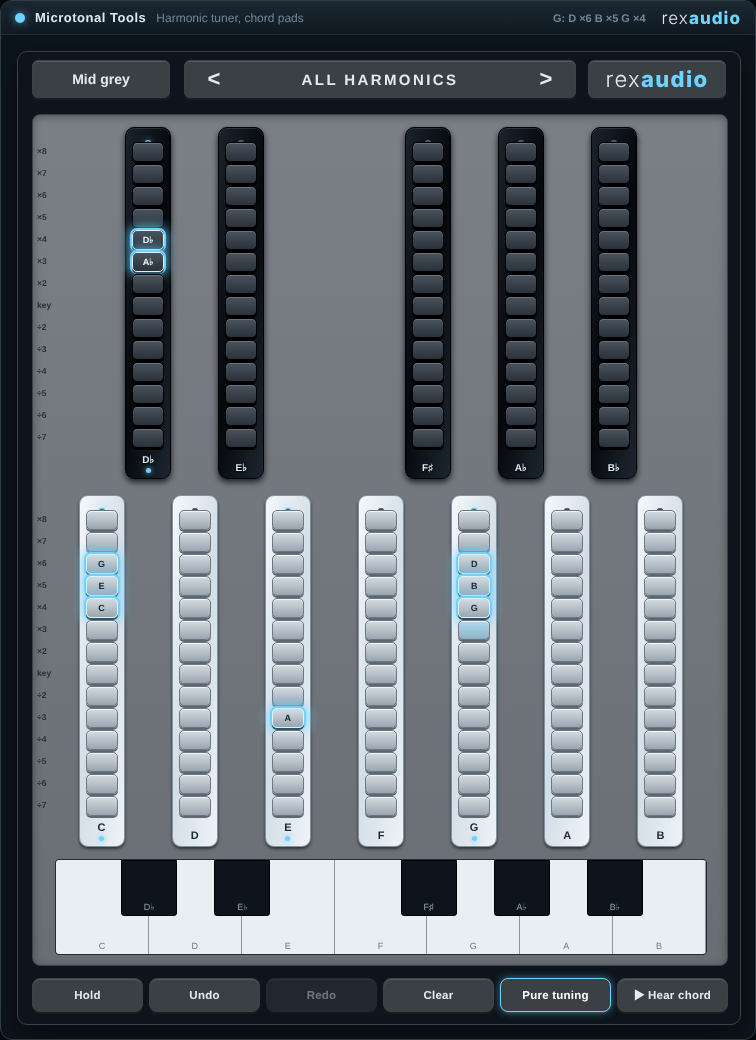
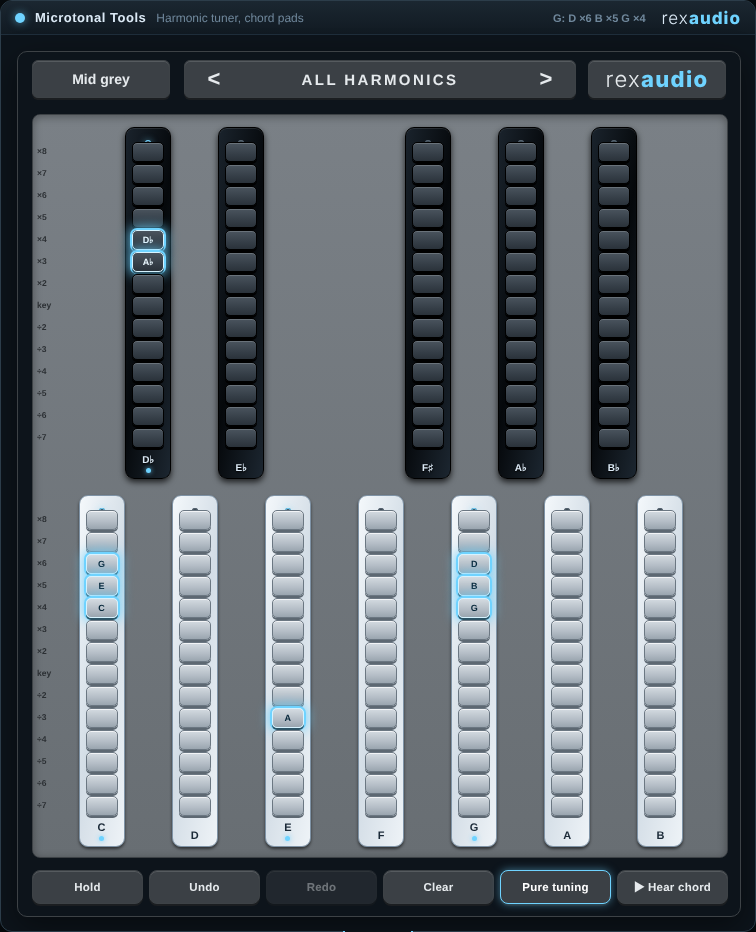
Chord pads page: Tunings keyboard module (stand, cable, MIDI card, knobs, wheels, two-octave keyboard) under the pads window
Claude-Session: https://claude.ai/code/session_01Mq2GKQqtKS2SjuN1U1snRm

diff --git a/harmonic-tuner-pads.html b/harmonic-tuner-pads.html
@@ -21,7 +21,7 @@
 
   /* the window, as on the Microtonal tuner page */
   #wrap { position:relative; margin:0 auto; }
-  #winf { position:absolute; left:0; top:0; width:756px; height:1040px; transform-origin:0 0; border:1px solid #2c3d4a; border-radius:12px; overflow:hidden; background:#0d141b; box-shadow:0 14px 40px rgba(0,0,0,.5); }
+  #winf { position:absolute; left:0; top:0; width:756px; height:932px; transform-origin:0 0; border:1px solid #2c3d4a; border-radius:12px; overflow:hidden; background:#0d141b; box-shadow:0 14px 40px rgba(0,0,0,.5); }
   #winf .dbar { height:34px; display:flex; align-items:center; gap:10px; padding:0 14px; background:linear-gradient(#1b2731,#111a22); border-bottom:1px solid #1f2e3b; }
   #winf .ddot { width:10px; height:10px; border-radius:50%; background:#6fd3ff; box-shadow:0 0 8px #6fd3ff99; }
   #winf .dtitle { font:700 13px Arial; color:#dbe9f5; letter-spacing:.04em; } #winf .dsub { font:500 12px Arial; color:#6f879b; }
@@ -29,7 +29,7 @@
   #winf .dlogo { margin-left:6px; font:300 17px "Helvetica Neue",Inter,Arial,sans-serif; letter-spacing:.06em; color:#dbe9f5; } #winf .dlogo b { font-weight:800; color:#6fd3ff; }
 
   /* the wooden module */
-  #mod { position:absolute; left:16px; top:50px; width:724px; height:974px; overflow:hidden; border:1px solid #9a7048; border-radius:10px; box-shadow:0 10px 30px rgba(0,0,0,.45); user-select:none; -webkit-user-select:none; touch-action:manipulation;
+  #mod { position:absolute; left:16px; top:50px; width:724px; height:866px; overflow:hidden; border:1px solid #9a7048; border-radius:10px; box-shadow:0 10px 30px rgba(0,0,0,.45); user-select:none; -webkit-user-select:none; touch-action:manipulation;
     background-color:#573821;
     background-image:radial-gradient(ellipse 190px 23px at 14% 9%, rgba(205,151,91,.32), transparent 78%), radial-gradient(ellipse 280px 15px at 81% 24%, rgba(15,6,2,.43), transparent 82%), radial-gradient(ellipse 230px 25px at 45% 42%, rgba(163,105,57,.23), transparent 76%), radial-gradient(ellipse 310px 18px at 67% 69%, rgba(15,6,2,.34), transparent 83%), radial-gradient(ellipse 210px 21px at 22% 88%, rgba(229,176,116,.18), transparent 80%), linear-gradient(135deg,#76502f,#573821 52%,#302016);
     background-blend-mode:screen,multiply,soft-light,multiply,screen,normal; }
@@ -64,7 +64,7 @@
   .mode-toggle[aria-pressed="true"] { background:linear-gradient(135deg,#d9b17b,#c5965e 55%,#b7844f); box-shadow:inset 0 2px 4px rgba(82,48,20,.24), 0 1px 0 rgba(255,241,204,.45); }
 
   /* the key bed: light honey wood, the black keys above and the white keys below, each with its own column of knobs */
-  #dock { left:14px; top:62px; width:696px; height:852px; border:1px solid #a87948; border-radius:8px; overflow:hidden; touch-action:none; background:linear-gradient(135deg,#f0d1a0,#d9b17b 55%,#c5965e); box-shadow:inset 0 2px 8px rgba(76,43,17,.22); }
+  #dock { left:14px; top:62px; width:696px; height:744px; border:1px solid #a87948; border-radius:8px; overflow:hidden; touch-action:none; background:linear-gradient(135deg,#f0d1a0,#d9b17b 55%,#c5965e); box-shadow:inset 0 2px 8px rgba(76,43,17,.22); }
   #dock::before { content:""; position:absolute; inset:0; pointer-events:none; opacity:.13; mix-blend-mode:multiply; filter:url(#organicWoodNoise); background:rgba(91,53,22,.34); }
   #dock > * { position:absolute; z-index:1; }
   .rl.r { left:auto; right:4px; text-align:right; color:#5a3a22; } .rl { left:4px; width:24px; font:700 8.5px/1 Arial; color:#7a5230; text-align:left; margin-top:-4px; }
@@ -92,7 +92,7 @@
     box-shadow:0 3px 5px rgba(0,0,0,.5), inset 0 1px 0 rgba(255,241,204,.7), inset 0 -2px 2px rgba(70,38,13,.32), 0 0 0 2px rgba(255,240,205,.55), 0 0 8px 1px rgba(255,226,160,.6); }
   .key .kn.on.xen { color:#7a2a10; }
   .kn:focus-visible { outline:2px solid #fff; outline-offset:2px; }
-  .bot { left:14px; width:696px; display:flex; gap:10px; height:34px; } #bot1 { top:926px; }
+  .bot { left:14px; width:696px; display:flex; gap:10px; height:34px; } #bot1 { top:818px; }
   .tbtn { flex:1 1 0; min-width:0; height:34px; padding:0 5px; white-space:nowrap; overflow:hidden; text-overflow:ellipsis; border-radius:8px; border:1px solid #28180e; cursor:pointer; color:#f0d6ad; font:700 12px Arial; letter-spacing:.02em; text-shadow:0 1px 2px rgba(0,0,0,.55); touch-action:manipulation;
     background-color:#573821; background-image:repeating-linear-gradient(3deg,rgba(35,17,7,.22) 0 1px,transparent 1px 4px,rgba(236,190,130,.12) 4px 5px,transparent 5px 11px),linear-gradient(135deg,#8a603a,#5a3822 58%,#3b2518);
     box-shadow:0 2px 0 #211309,inset 0 1px 0 rgba(255,226,183,.25),inset 0 -1px 0 rgba(25,12,5,.45); }
@@ -132,10 +132,36 @@
   .ta { width:46px; height:30px; border:0; border-radius:5px; background:none; color:inherit; font:700 22px/1 Arial; cursor:pointer; } .ta:hover { background:rgba(255,255,255,.12); }
   .mh { display:none; touch-action:none; cursor:ns-resize; user-select:none; z-index:3; } .v4 .mh { display:flex; }
   .v3 .key.w .kn:not(.on) { color:#37414b; } .v3 .key.b .kn:not(.on) { color:#e1e7ec; } .v3 .key .kn { font-size:8.5px; }
-  #pkb { position:absolute; top:744px; height:96px; display:flex; background:#000; border:1px solid #1f2e3b; border-radius:4px; overflow:hidden; touch-action:none; user-select:none; -webkit-user-select:none; }
-  #pkb .dk { position:relative; flex:1; background:#e9eef2; border-right:1px solid #8896a2; display:flex; align-items:flex-end; justify-content:center; padding-bottom:3px; font:9px Arial; color:#6c7a86; cursor:pointer; }
-  #pkb .bk { position:absolute; top:0; height:60%; z-index:2; background:#0d141b; border:1px solid #000; border-radius:0 0 3px 3px; cursor:pointer; display:flex; align-items:flex-end; justify-content:center; padding-bottom:3px; font:9px Arial; color:#8ea4b6; }
-  #pkb .dk.down, #pkb .bk.down { background:#6fd3ff; color:#070b0f; }
+  /* the keyboard module, as on the Tunings page: monitor stand, cable, then the MIDI card */
+  #scene { position:absolute; left:0; top:0; width:756px; transform-origin:0 0; }
+  #below { position:absolute; left:16px; top:931px; width:724px; --acc:#6fd3ff; --muted:#6f879b; --line:#1f2e3b; --win:#0d141b; --text:#dbe9f5; --bg:#070b0f; }
+  .monneck { width:70px; height:20px; margin:0 auto; border-left:2px solid var(--acc); border-right:2px solid var(--acc); background:#0b1218; }
+  .monbase { width:210px; height:10px; margin:0 auto; border:2px solid var(--acc); border-radius:6px; background:#0b1218; }
+  #cable { display:block; width:100%; height:84px; color:var(--acc); margin:-1px 0 0; }
+  #test { position:relative; padding:12px 14px 14px; border:1px solid var(--line); border-radius:6px; background:var(--win); }
+  .mrow { display:flex; align-items:center; justify-content:space-between; gap:12px; margin:0 0 12px; }
+  #midiMsg { font:500 12px/1.45 Arial; color:var(--muted); min-width:0; }
+  .sq { display:inline-flex; align-items:center; gap:8px; font:700 11px Arial; letter-spacing:.06em; text-transform:uppercase; padding:5px 11px; border:1px solid var(--line); border-radius:999px; background:transparent; color:var(--muted); cursor:pointer; white-space:nowrap; }
+  .sq i { width:10px; height:10px; border:1.5px solid var(--muted); border-radius:2px; }
+  .sq[aria-pressed="true"] { color:var(--text); border-color:var(--acc); } .sq[aria-pressed="true"] i { background:var(--acc); border-color:var(--acc); }
+  .rig { display:flex; gap:14px; align-items:stretch; }
+  .lcol { flex:none; display:flex; flex-direction:column; justify-content:flex-end; }
+  .ctls { flex:none; display:flex; gap:12px; align-items:flex-end; justify-content:center; padding:0 2px; }
+  .cc { display:flex; flex-direction:column; align-items:center; gap:6px; }
+  .cc .fl { font:500 10px Arial; letter-spacing:.1em; text-transform:uppercase; color:var(--muted); text-align:center; display:flex; flex-direction:column; gap:2px; } .cc .fl b { font-weight:700; } .cc .fl small { font-size:9px; letter-spacing:.06em; }
+  #knob, #knob2 { position:relative; width:60px; height:60px; border-radius:50%; background:radial-gradient(circle at 35% 30%, #2b3d4d, #121b24 70%); border:1px solid var(--muted); box-shadow:0 3px 8px rgba(0,0,0,.5); cursor:ns-resize; touch-action:none; }
+  #knob::before, #knob2::before { content:""; position:absolute; inset:-7px; border-radius:50%; border:1px dashed var(--line); }
+  #knob i, #knob2 i { position:absolute; left:50%; top:5px; width:3px; height:15px; margin-left:-1.5px; border-radius:2px; background:var(--acc); transform-origin:50% 25px; }
+  #wheelw, #pwheelw { position:relative; width:34px; height:84px; }
+  #wheel, #pwheel { position:absolute; inset:0; border-radius:8px; border:1px solid var(--muted); cursor:ns-resize; touch-action:none; box-shadow:0 3px 8px rgba(0,0,0,.5), inset 0 0 14px rgba(0,0,0,.7); background:repeating-linear-gradient(to bottom, #2e4152 0 3px, #101921 3px 7px); background-size:100% 7px; }
+  #wheel::after, #pwheel::after { content:""; position:absolute; inset:0; border-radius:8px; background:linear-gradient(to bottom, rgba(0,0,0,.65), rgba(255,255,255,.12) 45%, rgba(0,0,0,.65)); pointer-events:none; }
+  #wmark, #pmark { position:absolute; left:-8px; width:6px; height:6px; margin-top:-3px; border-radius:50%; background:var(--acc); } #pmark { top:42px; }
+  #knob:focus-visible, #knob2:focus-visible, #wheel:focus-visible, #pwheel:focus-visible { outline:2px solid #fff; outline-offset:3px; }
+  .kcol { flex:1; min-width:0; display:flex; flex-direction:column; }
+  #kbd { position:relative; display:flex; flex:1; min-height:104px; background:#000; border:1px solid var(--line); border-radius:4px; overflow:hidden; touch-action:none; user-select:none; -webkit-user-select:none; }
+  #kbd .dk { position:relative; flex:1; background:#e9eef2; border-right:1px solid #8896a2; display:flex; align-items:flex-end; justify-content:center; padding-bottom:3px; font:9px Arial; color:#6c7a86; cursor:pointer; }
+  #kbd .bk { position:absolute; top:0; height:60%; z-index:2; background:#0d141b; border:1px solid #000; border-radius:0 0 3px 3px; cursor:pointer; }
+  #kbd .dk.down, #kbd .bk.down { background:var(--acc); color:#070b0f; }
 </style>
 </head>
 <body>
@@ -150,7 +176,7 @@
     <feComponentTransfer in="mono"><feFuncR type="gamma" amplitude="1.5" exponent="1.8" offset="-0.2"/><feFuncG type="gamma" amplitude="1.5" exponent="1.8" offset="-0.2"/><feFuncB type="gamma" amplitude="1.5" exponent="1.8" offset="-0.2"/></feComponentTransfer>
   </filter>
 </svg>
-<div id="wrap">
+<div id="wrap"><div id="scene">
   <div id="winf" aria-label="Harmonic tuner window">
     <div class="dbar"><span class="ddot"></span><span class="dtitle">Microtonal Tools</span><span class="dsub">Harmonic tuner, chord pads</span><span class="dst" id="read"></span><span class="dlogo">rex<b>audio</b></span></div>
     <div id="mod">
@@ -162,8 +188,24 @@
       
     </div>
   </div>
-</div>
-<p class="hint">Laid out like the Microtonal tuner: black keys above, white keys below, each with a column of chord pads for harmonics above and undertones below. Use the < and > in the title to step through overtones, undertones, all harmonics, microtones (pick one ratio per key) and manual pitch (drag each key's handle). Press the bottom of a key, or a key on the keyboard underneath, to play it. The top-left panel cycles the panel colour (or use a MIDI keyboard, or the keys A W S E D F T G Y H U J).</p>
+  <div id="below">
+    <div class="monneck"></div><div class="monbase"></div>
+    <svg id="cable" viewBox="0 0 760 84" preserveAspectRatio="xMidYMid meet" aria-hidden="true" fill="none" stroke="currentColor" stroke-width="2.2" stroke-linecap="round" stroke-linejoin="round"><path d="M380 4V60"/><rect x="369" y="-2" width="22" height="8" rx="2" fill="#18232e"/><rect x="366" y="60" width="28" height="16" rx="3" fill="#18232e"/><path d="M373 76v8M387 76v8"/></svg>
+    <div id="test">
+      <div class="mrow"><span id="midiMsg" role="status" aria-live="polite">Connect a MIDI keyboard, or play with the mouse or computer keys.</span><button class="sq" id="midiBtn" type="button" aria-pressed="false" title="Use a real MIDI keyboard: its notes play, and its pitch wheel bends them"><i></i>Connect MIDI</button></div>
+      <div class="rig">
+        <div class="lcol"><div class="ctls">
+          <div class="cc"><div id="knob" tabindex="0" role="slider" aria-label="Mode knob"><i></i></div><span class="fl"><b>Knob 1</b><small id="sm1">Mode</small></span></div>
+          <div class="cc"><div id="knob2" tabindex="0" role="slider" aria-label="Panel colour knob"><i></i></div><span class="fl"><b>Knob 2</b><small id="sm2">Panel</small></span></div>
+          <div class="cc"><div id="wheelw"><div id="wheel" tabindex="0" role="slider" aria-label="Mod wheel (octave)"></div><div id="wmark"></div></div><span class="fl">Mod<small>Octave</small></span></div>
+          <div class="cc"><div id="pwheelw"><div id="pwheel" tabindex="0" role="slider" aria-label="Pitch wheel" aria-valuemin="-1" aria-valuemax="1" aria-valuenow="0"></div><div id="pmark"></div></div><span class="fl">Pitch<small>Bend</small></span></div>
+        </div></div>
+        <div class="kcol"><div id="kbd"></div></div>
+      </div>
+    </div>
+  </div>
+</div></div>
+<p class="hint">Laid out like the Microtonal tuner: black keys above, white keys below, each with a column of chord pads for harmonics above and undertones below. Use the < and > in the title to step through overtones, undertones, all harmonics, microtones (pick one ratio per key) and manual pitch (drag each key's handle). Press the bottom of a key, or a key on the keyboard module underneath, to play it. The top-left panel cycles the panel colour (or use a MIDI keyboard, or the keys A W S E D F T G Y H U J).</p>
 <p class="sitefoot">&copy; 2026 Rex Audio. <a href="licence.html">Licence and copyright</a></p>
 <script>
 const $ = s => document.querySelector(s);
@@ -211,7 +253,7 @@ const pitchOf = (c, k) => 60 + c + (k >= 1 ? 12 * Math.log2(k) - 12 * Math.log2(
 const nameOf = p => NAMES[((Math.round(p) % 12) + 12) % 12];
 
 // ---- the wooden keys and their columns ----
-const kbEls = [], setDown = (c, on) => { keyEls[c].classList.toggle("down", !!on); if (kbEls[c]) kbEls[c].classList.toggle("down", !!on); };
+const kbEls = Array.from({ length: 12 }, () => []), setDown = (c, on) => { keyEls[c].classList.toggle("down", !!on); kbEls[c].forEach(e => e.classList.toggle("down", !!on)); };
 const dock = $("#dock"), kn = {}, keyEls = [], railEls = [], mhs = [], tks = {};
 const MH0 = 167, MHR = 143, mhY = v => MH0 - v / 50 * MHR;
 function dragHandle(mh, c, key) {
@@ -235,12 +277,6 @@ for (let c = 0; c < 12; c++) {
   const lb = document.createElement("span"); lb.className = "lb"; lb.textContent = NAMES[c]; key.appendChild(lb);
   dock.appendChild(key); keyEls.push(key);
 }
-// ---- the Tunings plugin's keyboard, under the pads: each key plays its own column ----
-const kbd = document.createElement("div"); kbd.id = "pkb"; kbd.style.left = PAD + "px"; kbd.style.width = (7 * PITCH) + "px"; dock.appendChild(kbd);
-[0, 2, 4, 5, 7, 9, 11].forEach(c => { const k = document.createElement("div"); k.className = "dk"; k.dataset.c = c; k.textContent = NAMES[c]; kbd.appendChild(k); kbEls[c] = k; });
-[1, 3, 6, 8, 10].forEach(c => { const k = document.createElement("div"); k.className = "bk"; k.dataset.c = c; k.style.left = ((WI[c - 1] + 1) * PITCH - PITCH * .3) + "px"; k.style.width = (PITCH * .6) + "px"; k.textContent = NAMES[c]; kbd.appendChild(k); kbEls[c] = k; });
-kbd.addEventListener("pointerdown", e => { const k = e.target.closest(".dk, .bk"); if (!k) return; e.preventDefault(); try { k.setPointerCapture(e.pointerId); } catch (x) {} down("b" + e.pointerId, +k.dataset.c, .8); });
-["pointerup", "pointercancel"].forEach(ev => kbd.addEventListener(ev, e => up("b" + e.pointerId)));
 function paint() {
   document.body.classList.toggle("v3", S.view === 3); document.body.classList.toggle("v4", S.view === 4);
   rls.forEach(([l, ri]) => { const k = S.view < 3 ? RV[S.view][ri] : 0; l.textContent = !k ? "" : k > 1 ? "×" + k : k === 1 ? "key" : "÷" + (-k); });
@@ -309,7 +345,7 @@ function voice(midi, vel, n, gate) {
   g.gain.setValueAtTime(0, t); g.gain.linearRampToValueAtTime(peak, t + .004); g.gain.setTargetAtTime(peak * .35, t + .005, .6);
   const all = [car, mod, bell]; all.forEach(o => o.start(t));
   const h = { stop() { const u = ctx.currentTime; g.gain.cancelScheduledValues(u); g.gain.setTargetAtTime(0, u, .08); all.forEach(o => { try { o.stop(u + .5); } catch (e) {} }); live.delete(h); } };
-  live.add(h); if (gate) setTimeout(() => h.stop(), gate); return h;
+  h.bend = cents => all.forEach(o => { o.detune.value = cents; }); all.forEach(o => { o.detune.value = bendC; }); live.add(h); if (gate) setTimeout(() => h.stop(), gate); return h;
 }
 // the notes of a column, as midi pitches: undertones stay low as the bass; the key alone if nothing is picked
 function notesOf(c, ks) {
@@ -323,10 +359,10 @@ function notesOf(c, ks) {
 }
 function blip(c, k) { audio(); voice(notesOf(c, [k])[0], .7, 1, 700); }
 const held = new Map(), latched = new Set();
-function down(id, c, vel) {
+function down(id, c, vel, oc = 0) {
   audio();
   if (S.hold && latched.has(c)) { latched.delete(c); stopCol(c); return; }
-  up(id, true); const ps = keyNotes(c, S.sel[c]); held.set(id, { c, vs: ps.map(p => voice(p, vel, ps.length)) });
+  up(id, true); const ps = keyNotes(c, S.sel[c]).map(p => p + 12 * oc); held.set(id, { c, vs: ps.map(p => voice(p, vel, ps.length)) });
   setDown(c, 1); readout(c); if (S.hold) latched.add(c);
 }
 function stopCol(c) { [...held.entries()].forEach(([id, h]) => { if (h.c === c) { held.delete(id); h.vs.forEach(v => v.stop()); } }); setDown(c, 0); }
@@ -355,14 +391,33 @@ $("#vPrev").onclick = () => { S.view = (S.view + 4) % 5; paint(); save(); $("#re
 $("#vNext").onclick = () => { S.view = (S.view + 1) % 5; paint(); save(); $("#read").textContent = ""; };
 syncFns.push(() => { $("#bTune").textContent = S.pure ? "Pure tuning" : "12-TET"; $("#bTune").setAttribute("aria-pressed", String(S.pure)); });
 
-// ---- MIDI keyboard: each key plays its own column ----
-if (navigator.requestMIDIAccess) document.addEventListener("pointerdown", () => {
-  if (window.__midi) return; window.__midi = true;
-  navigator.requestMIDIAccess().then(acc => { const bind = () => acc.inputs.forEach(i => { i.onmidimessage = e => { const [st, a, b] = e.data, cmd = st & 0xf0; if (cmd === 0x90 && b > 0) down("m" + a, a % 12, Math.pow(b / 127, .8)); else if (cmd === 0x80 || (cmd === 0x90 && b === 0)) up("m" + a); }; }); acc.onstatechange = bind; bind(); }).catch(() => {});
-}, { once: true });
+// ---- the keyboard module: two octaves, each key plays its own column; knobs, wheels and MIDI as on the Tunings page ----
+const kbd = $("#kbd"), WK = [0, 2, 4, 5, 7, 9, 11], BK = { 0: 1, 1: 3, 3: 6, 4: 8, 5: 10 };
+for (let o = 0; o < 2; o++) WK.forEach(c => { const k = document.createElement("div"); k.className = "dk"; k.dataset.c = c; k.dataset.o = o; if (c === 0) k.textContent = "C" + (3 + o); else k.textContent = NAMES[c]; kbd.appendChild(k); kbEls[c].push(k); });
+for (let o = 0; o < 2; o++) Object.keys(BK).forEach(i => { const c = BK[i], k = document.createElement("div"); k.className = "bk"; k.dataset.c = c; k.dataset.o = o; k.style.left = ((o * 7 + +i + 1) * 100 / 14 - 2.4) + "%"; k.style.width = "4.8%"; kbd.appendChild(k); kbEls[c].push(k); });
+kbd.addEventListener("pointerdown", e => { const k = e.target.closest(".dk, .bk"); if (!k) return; e.preventDefault(); try { k.setPointerCapture(e.pointerId); } catch (x) {} down("b" + e.pointerId, +k.dataset.c, .8, +k.dataset.o); });
+["pointerup", "pointercancel"].forEach(ev => kbd.addEventListener(ev, e => up("b" + e.pointerId)));
+function drag(el, step, onStep) { let y0 = null, a = 0; el.addEventListener("pointerdown", e => { e.preventDefault(); el.setPointerCapture(e.pointerId); y0 = e.clientY; a = 0; }); el.addEventListener("pointermove", e => { if (y0 == null) return; const sc = el.getBoundingClientRect().height / el.offsetHeight || 1, n = Math.trunc((y0 - e.clientY) / (step * sc)); if (n !== a) { onStep(n - a); a = n; } }); ["pointerup", "pointercancel"].forEach(ev => el.addEventListener(ev, () => { y0 = null; })); }
+drag($("#knob"), 14, d => { S.view = (S.view + d + 50) % 5; paint(); save(); $("#read").textContent = ""; });
+drag($("#knob2"), 14, d => { S.panel = (S.panel + d + 70) % PANELS.length; applyPanel(); paint(); save(); });
+syncFns.push(() => { $("#knob i").style.transform = `rotate(${-135 + 270 * S.view / 4}deg)`; $("#knob2 i").style.transform = `rotate(${-135 + 270 * S.panel / (PANELS.length - 1)}deg)`; $("#sm1").textContent = VIEWS[S.view]; $("#sm2").textContent = PANELS[S.panel][0]; $("#wmark").style.top = (42 - S.oct * 36) + "px"; });
+// mod wheel: octave -1 / 0 / +1; pitch wheel: bend, springs back
+function wheelPos(el, e) { const r = el.getBoundingClientRect(); return Math.max(0, Math.min(1, (e.clientY - r.top) / r.height)); }
+{ const w = $("#wheel"); let on = false; const set = e => { S.oct = Math.round((.5 - wheelPos(w, e)) * 2); S.oct = Math.max(-1, Math.min(1, S.oct)); w.style.backgroundPositionY = -S.oct * 30 + "px"; w.setAttribute("aria-valuenow", S.oct); paint(); save(); };
+  w.addEventListener("pointerdown", e => { e.preventDefault(); w.setPointerCapture(e.pointerId); on = true; set(e); }); w.addEventListener("pointermove", e => { if (on) set(e); }); ["pointerup", "pointercancel"].forEach(ev => w.addEventListener(ev, () => { on = false; })); }
+let bendC = 0; function setBend(v) { v = Math.max(-1, Math.min(1, v)); bendC = v * 200; $("#pmark").style.top = 42 - v * 42 + "px"; $("#pwheel").style.backgroundPositionY = -v * 30 + "px"; $("#pwheel").setAttribute("aria-valuenow", v.toFixed(2)); live.forEach(h => h.bend && h.bend(bendC)); }
+{ const w = $("#pwheel"); let on = false; const set = e => setBend(1 - 2 * wheelPos(w, e));
+  w.addEventListener("pointerdown", e => { e.preventDefault(); w.setPointerCapture(e.pointerId); on = true; set(e); }); w.addEventListener("pointermove", e => { if (on) set(e); }); ["pointerup", "pointercancel"].forEach(ev => w.addEventListener(ev, () => { on = false; setBend(0); })); }
+$("#midiBtn").onclick = () => {
+  const m = $("#midiMsg"), btn = $("#midiBtn"); if (!navigator.requestMIDIAccess) { m.textContent = "This browser has no MIDI support. Use the mouse or the computer keys."; return; }
+  navigator.requestMIDIAccess().then(acc => {
+    const bind = () => { let n = 0; acc.inputs.forEach(i => { n++; i.onmidimessage = e => { const [st, a, b] = e.data, cmd = st & 0xf0, o = Math.max(0, Math.min(1, Math.floor(a / 12) - 5)); if (cmd === 0x90 && b > 0) down("m" + a, a % 12, Math.pow(b / 127, .8), Math.floor(a / 12) - 5); else if (cmd === 0x80 || (cmd === 0x90 && b === 0)) up("m" + a); else if (cmd === 0xE0) setBend(((b << 7 | a) - 8192) / 8192); }; }); btn.setAttribute("aria-pressed", String(n > 0)); m.textContent = n ? "MIDI connected: each key plays its own column; the pitch wheel bends." : "No MIDI keyboard found. Plug one in."; };
+    acc.onstatechange = bind; bind();
+  }).catch(() => { m.textContent = "MIDI access was blocked. Allow it in the browser to use a keyboard."; });
+};
 
 // ---- scale the window to the screen, like the microtonal tuner ----
-function fit() { const w = Math.min(document.documentElement.clientWidth, 960), s = w / 756; $("#winf").style.transform = "scale(" + s + ")"; const wr = $("#wrap"); wr.style.width = w + "px"; wr.style.height = (1040 * s) + "px"; }
+function fit() { const w = Math.min(document.documentElement.clientWidth, 960), s = w / 756, H = 931 + $("#below").offsetHeight + 16; $("#scene").style.transform = "scale(" + s + ")"; $("#scene").style.height = H + "px"; const wr = $("#wrap"); wr.style.width = w + "px"; wr.style.height = (H * s) + "px"; }
 addEventListener("resize", fit); fit(); paint();
 </script>
 <script src="nav.js"></script>

diff --git a/music-theory-tools.html b/music-theory-tools.html
@@ -163,7 +163,7 @@ footer { margin-top: 72px; padding: 24px 36px 48px; border-top: 1px solid var(--
       </span>
     </a>
     <a class="card" href="harmonic-tuner-pads.html">
-      <img src="harmonic-tuner-pads-preview.png" width="756" height="1040" alt="The Harmonic tuner with black and white chord pads in every key" loading="lazy">
+      <img src="harmonic-tuner-pads-preview.png" width="756" height="932" alt="The Harmonic tuner with black and white chord pads in every key" loading="lazy">
       <span class="txt">
         <span class="label">Tuning · Chord pads</span>
         <h2>Harmonic tuner, chord pads</h2>
